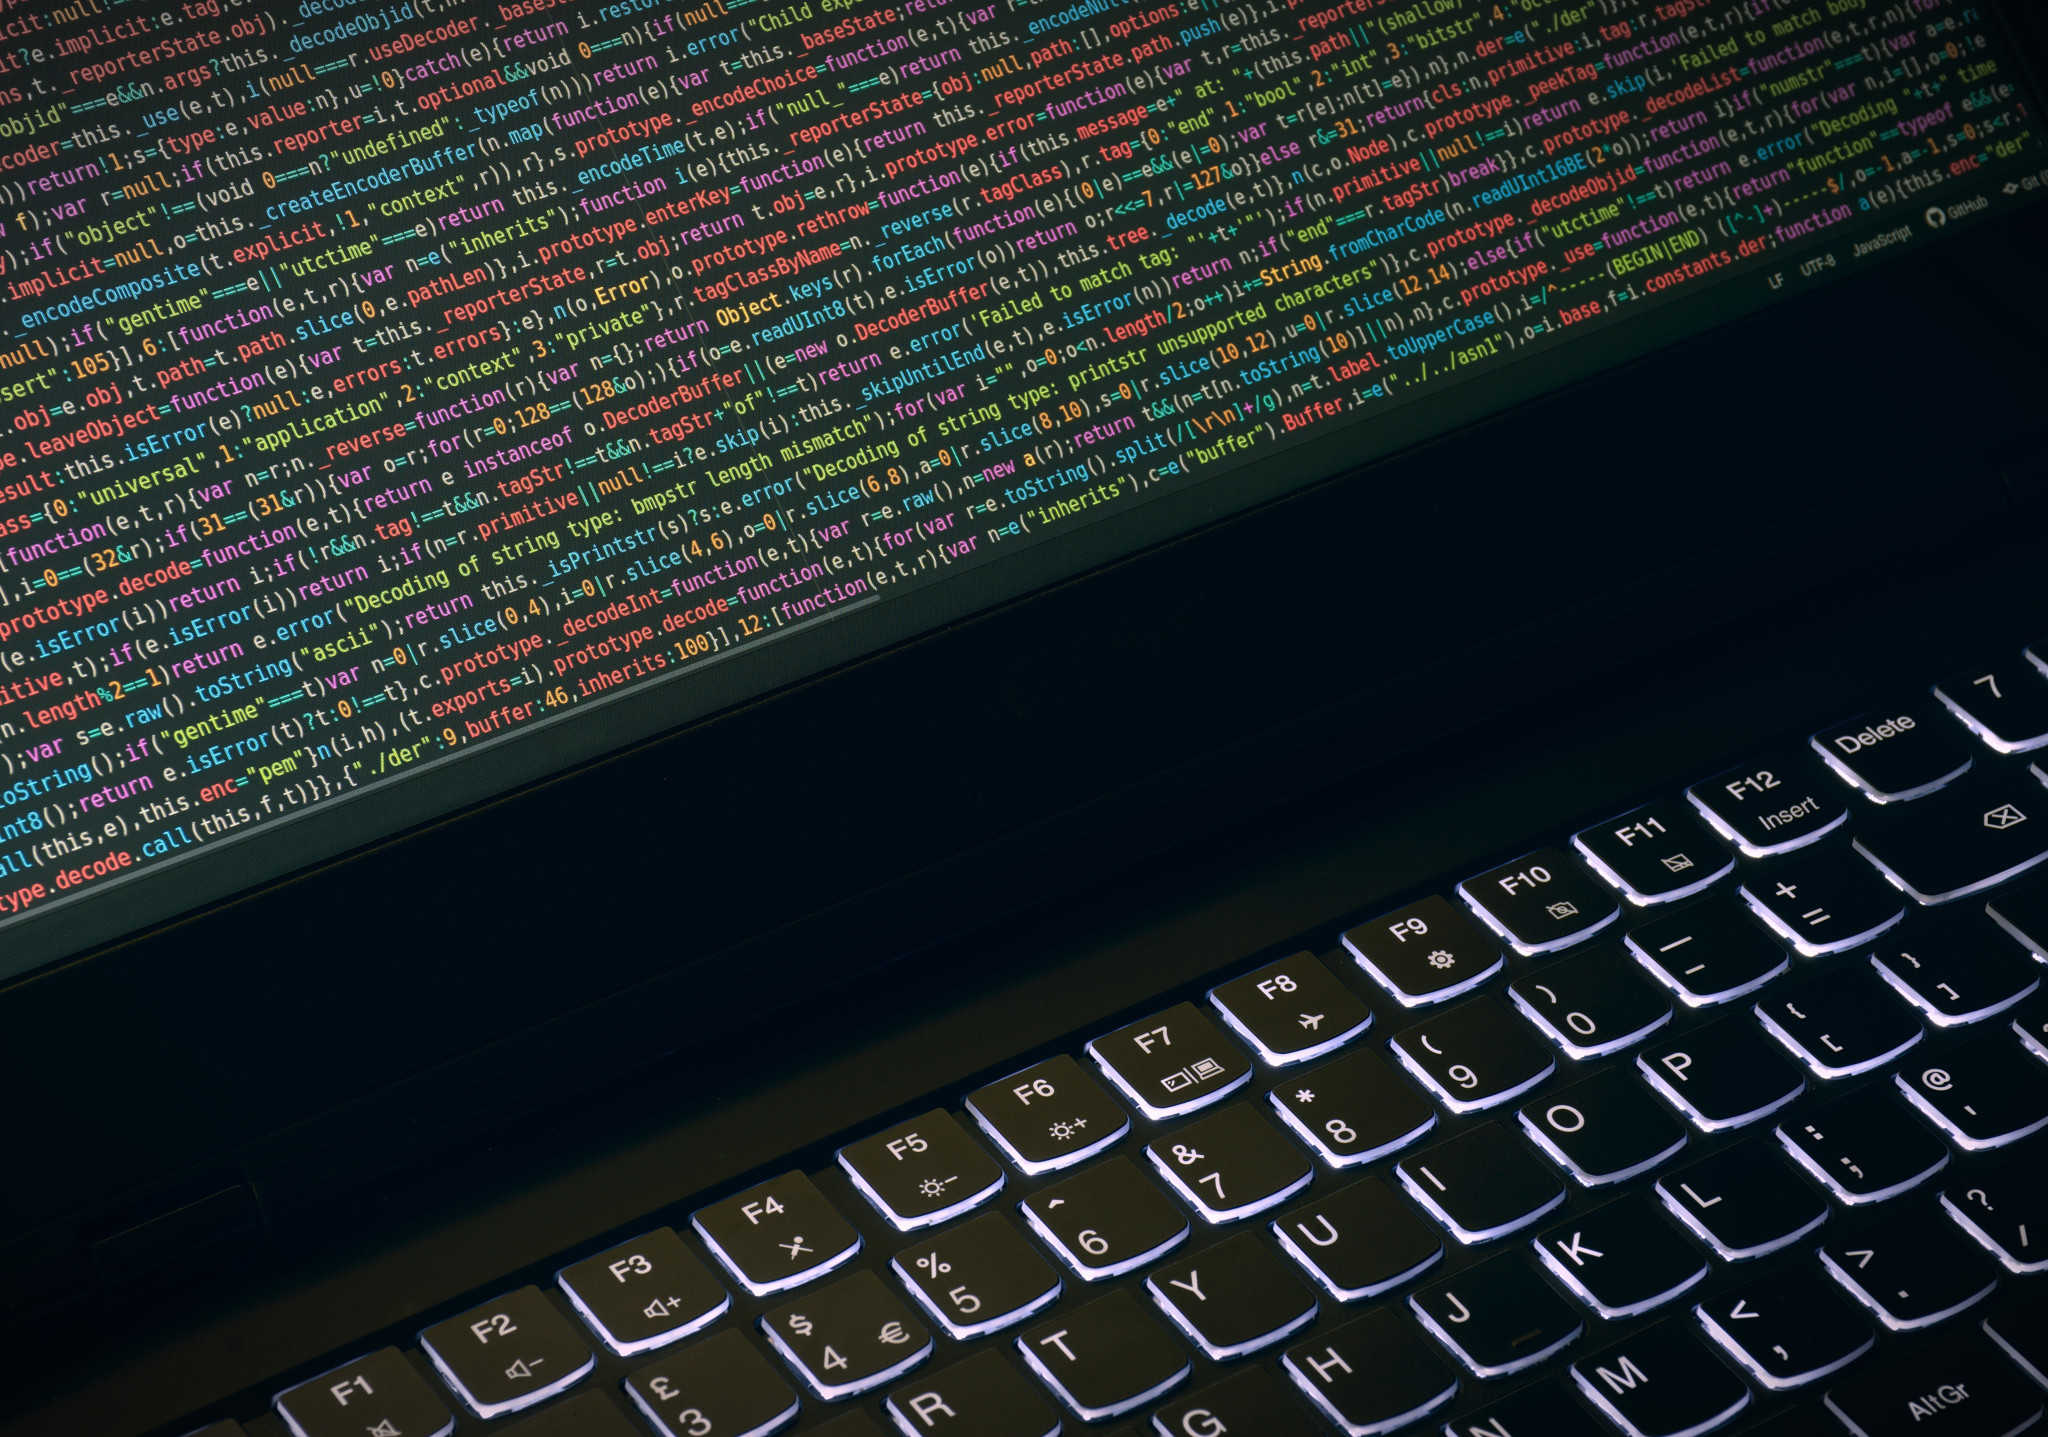
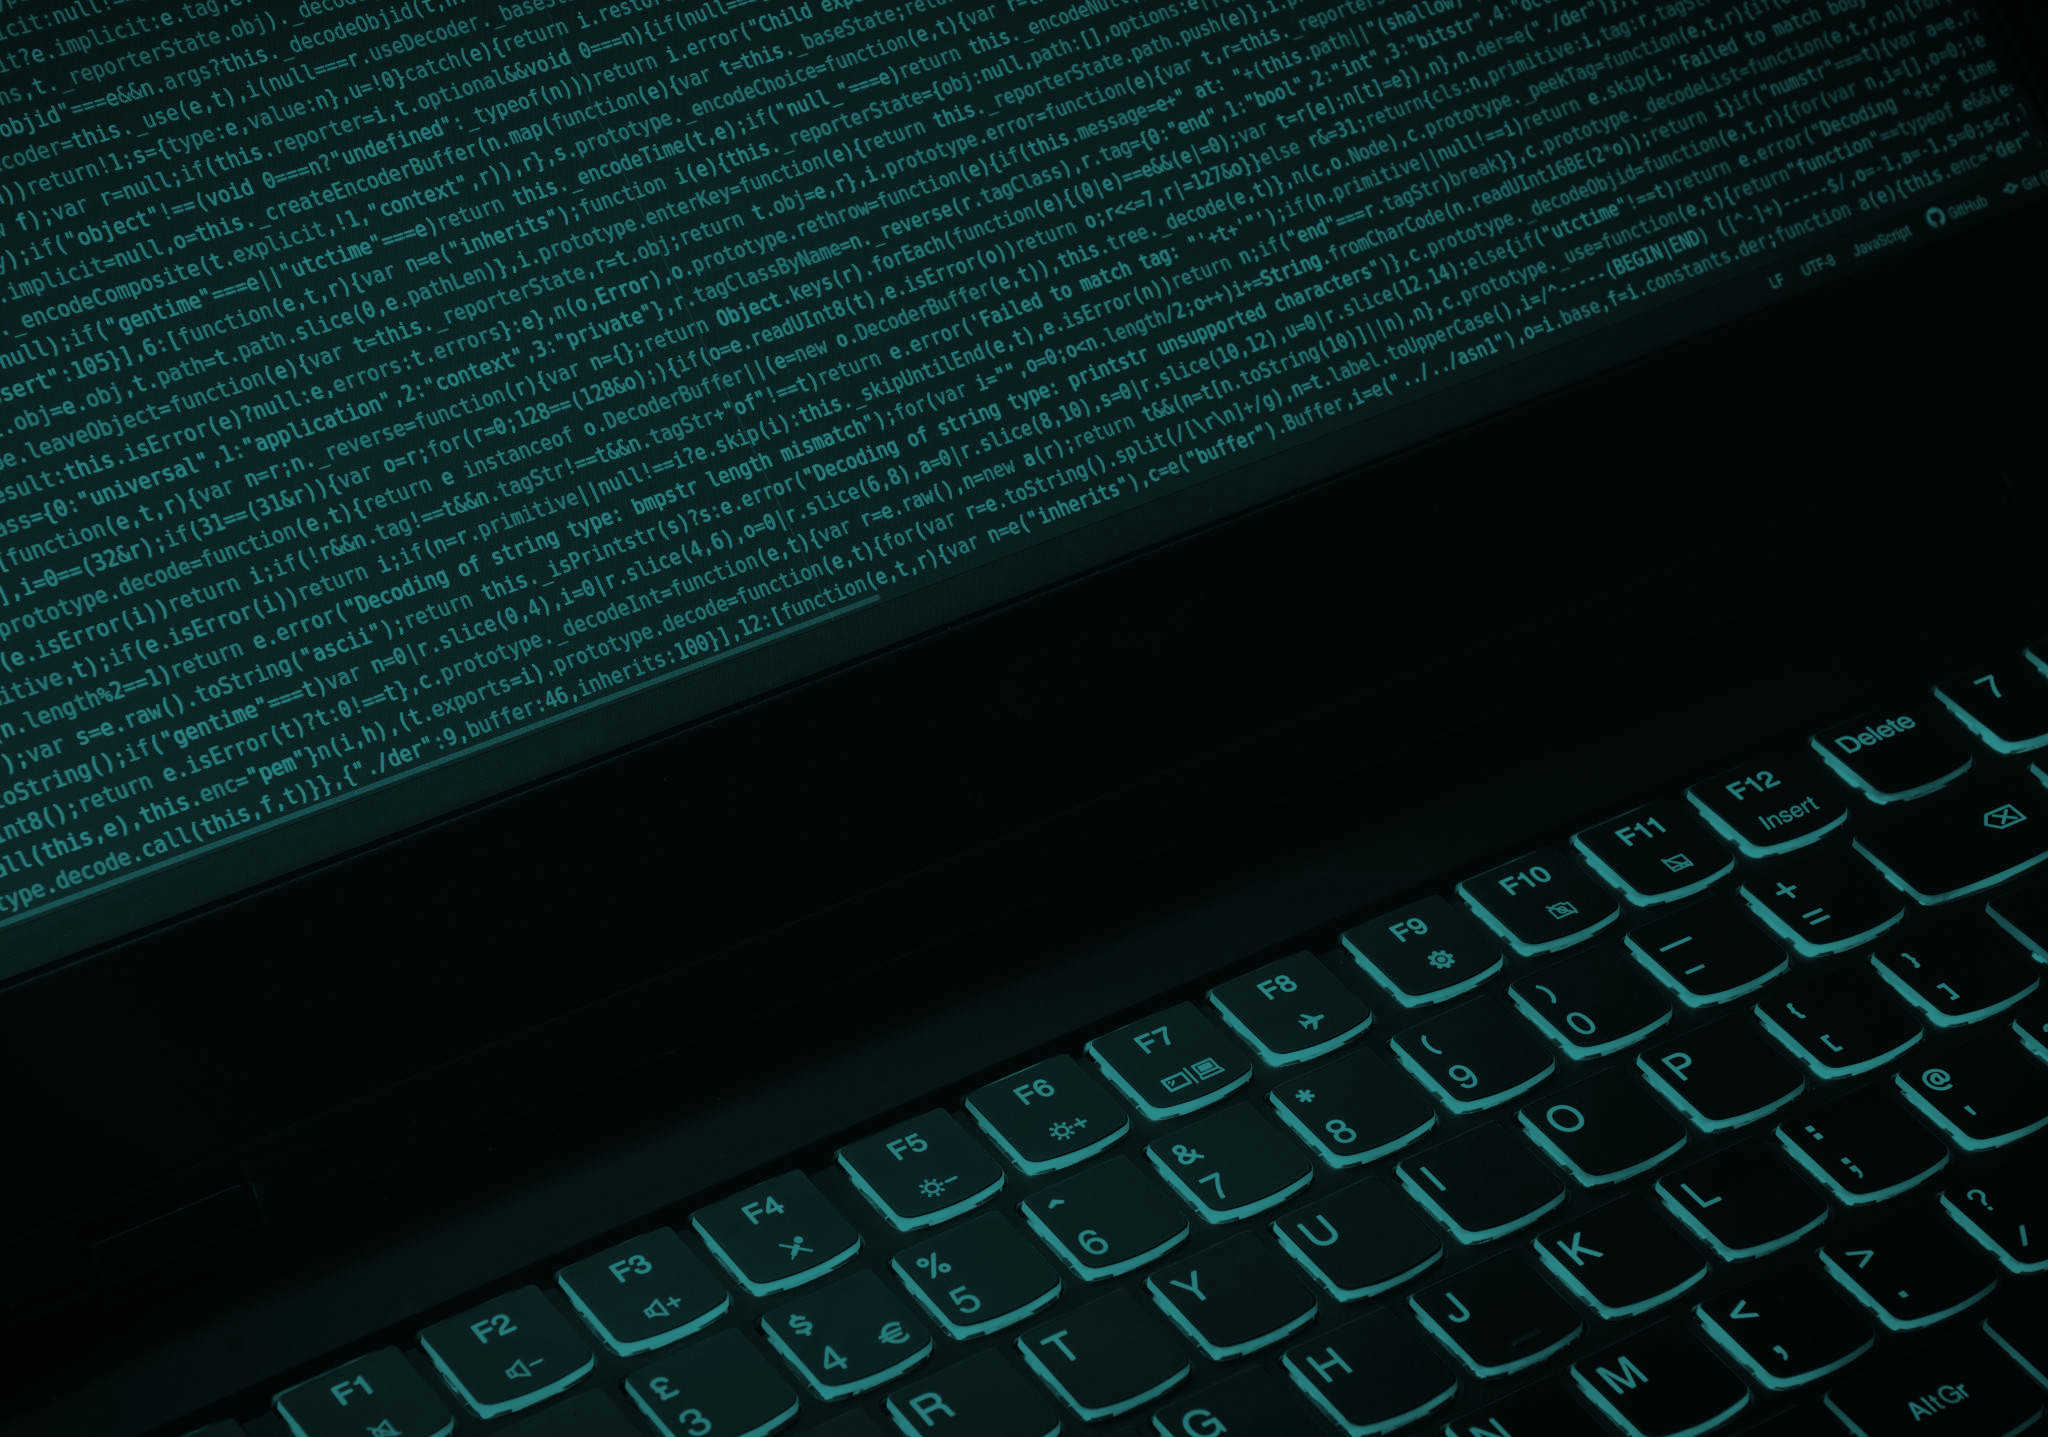
stile: reso quasi monocromatico il jumbo

diff --git a/src/scss/_jumbo.scss b/src/scss/_jumbo.scss
@@ -11,6 +11,7 @@
     overflow: hidden;
     background-attachment: fixed;
     padding-bottom: 0;
+    // filter: grayscale(1);
 }
 
 .overlay {
@@ -28,6 +29,11 @@
 
 .title {
     width: 60%;
+    // filter: grayscale(1);
+    transition: 1s;
+    // &:hover {
+    // filter: grayscale(0);
+    // }
 }
 
 .subtitle {

diff --git a/public/css/style.css b/public/css/style.css
@@ -16888,6 +16888,8 @@ h6 {
 
 .title {
   width: 60%;
+  -webkit-transition: 1s;
+  transition: 1s;
 }
 
 .subtitle {
